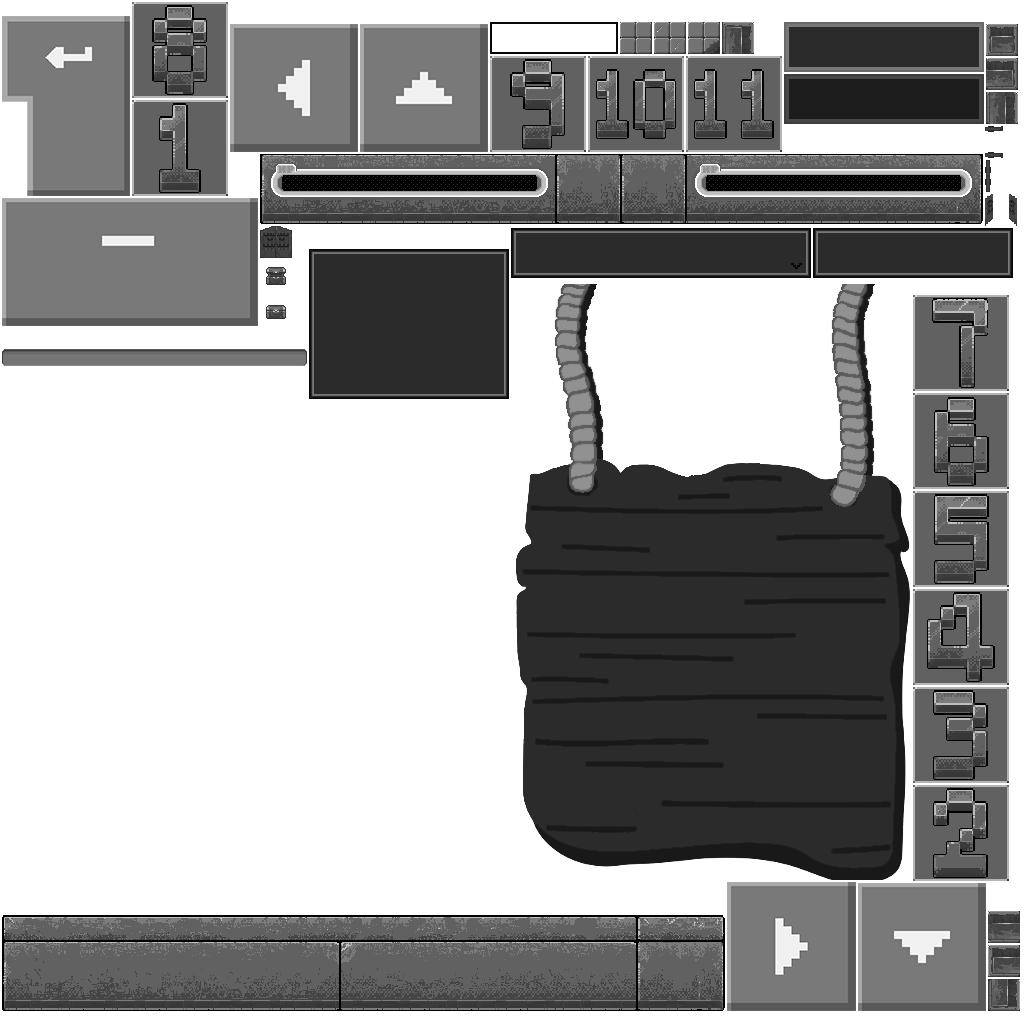
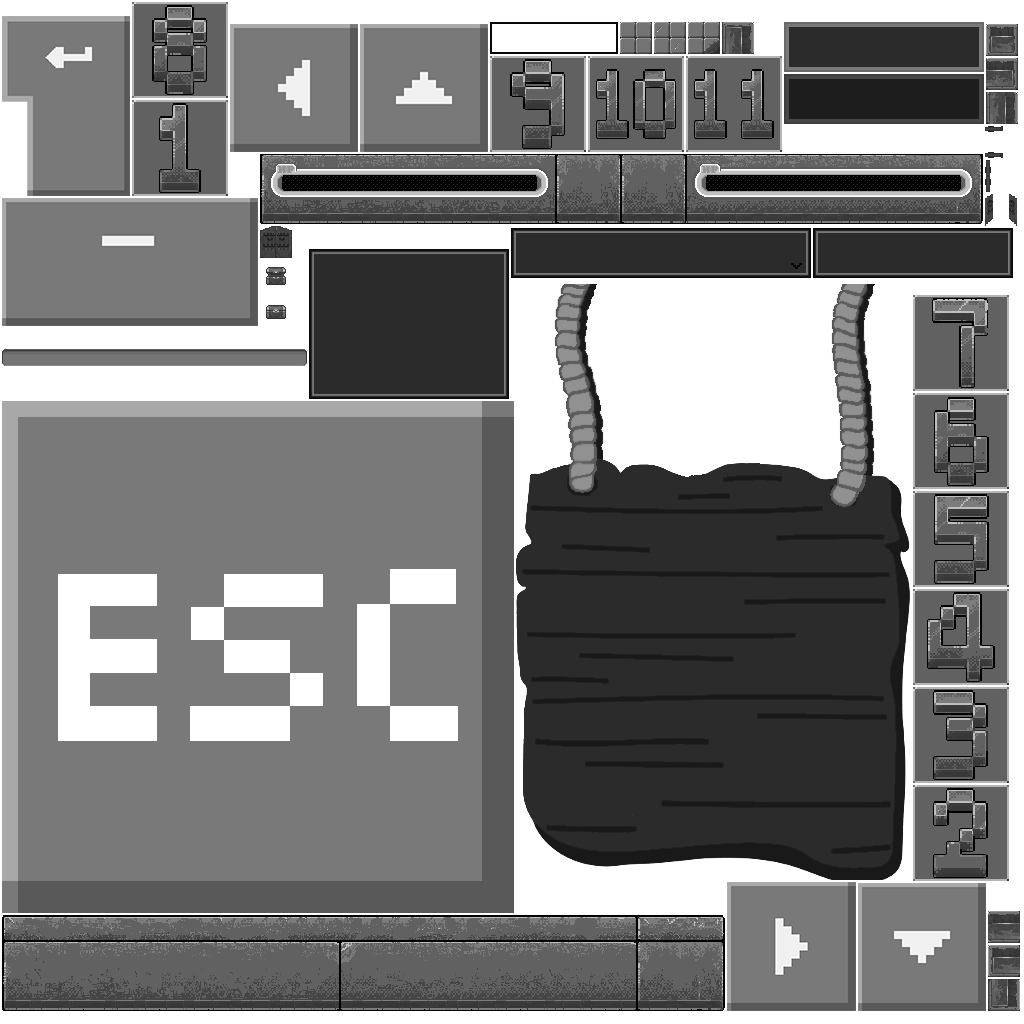
Esc key

Changed region(s): [[0.0, 0.375, 0.5, 0.9062]]

diff --git a/core/src/aston/team15/jumazy/view/GameScreen.java b/core/src/aston/team15/jumazy/view/GameScreen.java
@@ -695,7 +695,7 @@ public class GameScreen implements Screen {
 
 	private void startFight(LinkedHashMap<String, Integer> stats1, int keycode) {
         hud.setPlayerConsoleText("You've entered a fight! press SPACE to attack the monster!");
-		fightingStage.setupNewFight(stats1, game.generateMonsterStats(), players.get(currentPlayerIndex), keycode);
+		fightingStage.setupNewFight(stats1, game.generateMonsterStats(stats1), players.get(currentPlayerIndex), keycode);
 		fightingStage.show();
 
 		inFight = true;

diff --git a/core/src/aston/team15/jumazy/controller/JumazyController.java b/core/src/aston/team15/jumazy/controller/JumazyController.java
@@ -303,7 +303,7 @@ public class JumazyController extends Game {
 		gameScreen.movePlayerToStartOfMove(maze.getCurrentPlayer().moveToStartOfTurn());
 	}
 
-	public LinkedHashMap<String, Integer> generateMonsterStats() {
+	public LinkedHashMap<String, Integer> generateMonsterStats(LinkedHashMap<String, Integer> playerstats) {
 		String monsterType = maze.getMonsterType(maze.getCurrentPlayer());
 
 		LinkedHashMap<String, Integer> monsterStats = new LinkedHashMap<String, Integer>();

diff --git a/core/src/aston/team15/jumazy/view/TutorialScreen.java b/core/src/aston/team15/jumazy/view/TutorialScreen.java
@@ -67,7 +67,7 @@ public class TutorialScreen extends MenuScreen {
 		controlTable.add(description).padTop(40).padLeft(-215);
 		controlTable.row();
 		
-		Image escapeKey = new Image(game.getSprite("space"));
+		Image escapeKey = new Image(game.getSprite("Esc"));
 		controlTable.add(escapeKey).width(40).height(20).padTop(20);
 		description = new Label("Press escape to pause.", skin);
 		description.setFontScale(0.75f);
